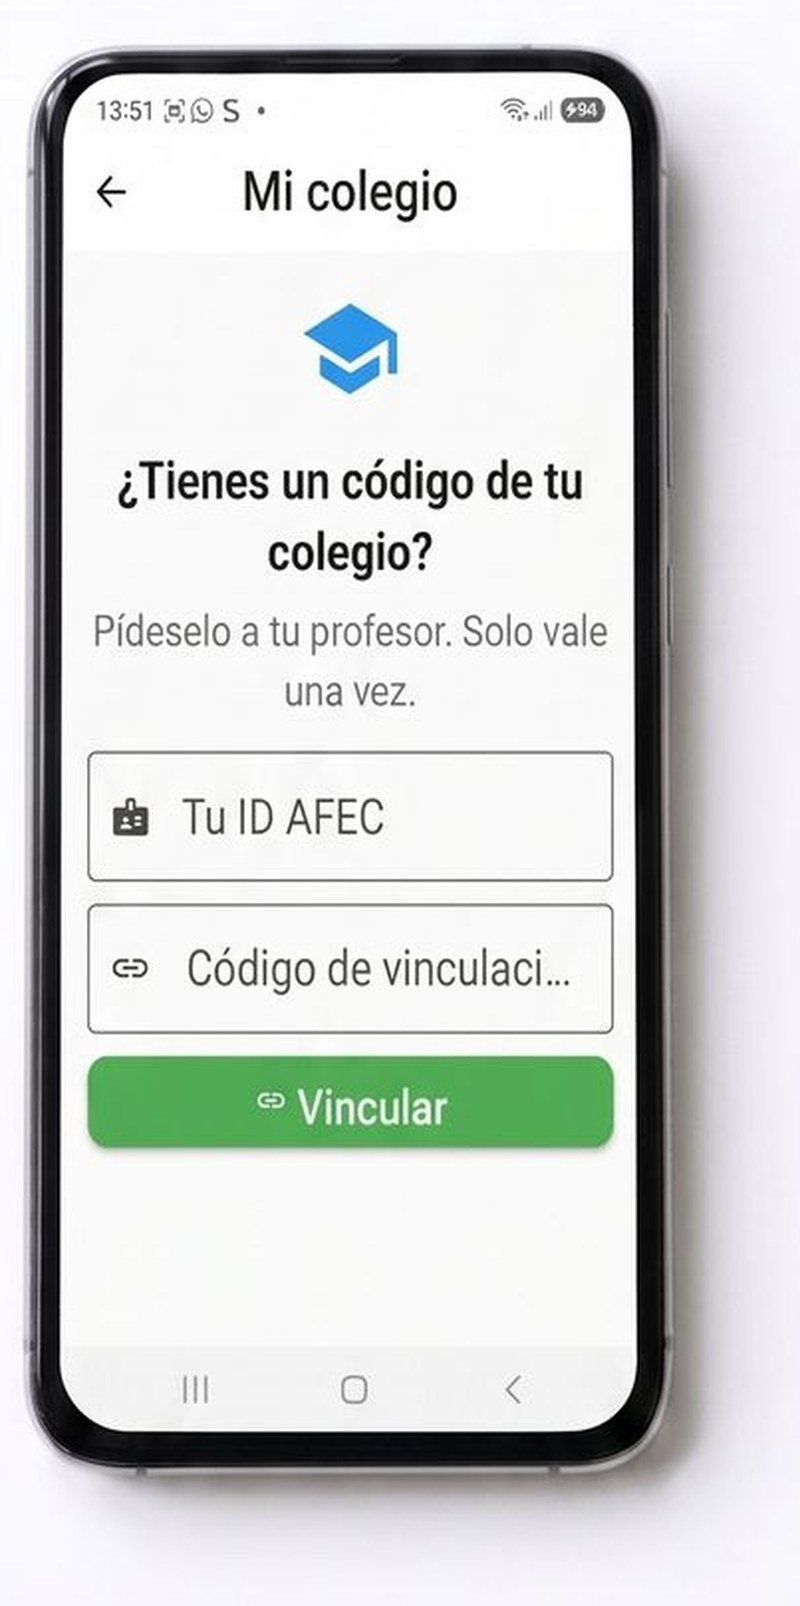
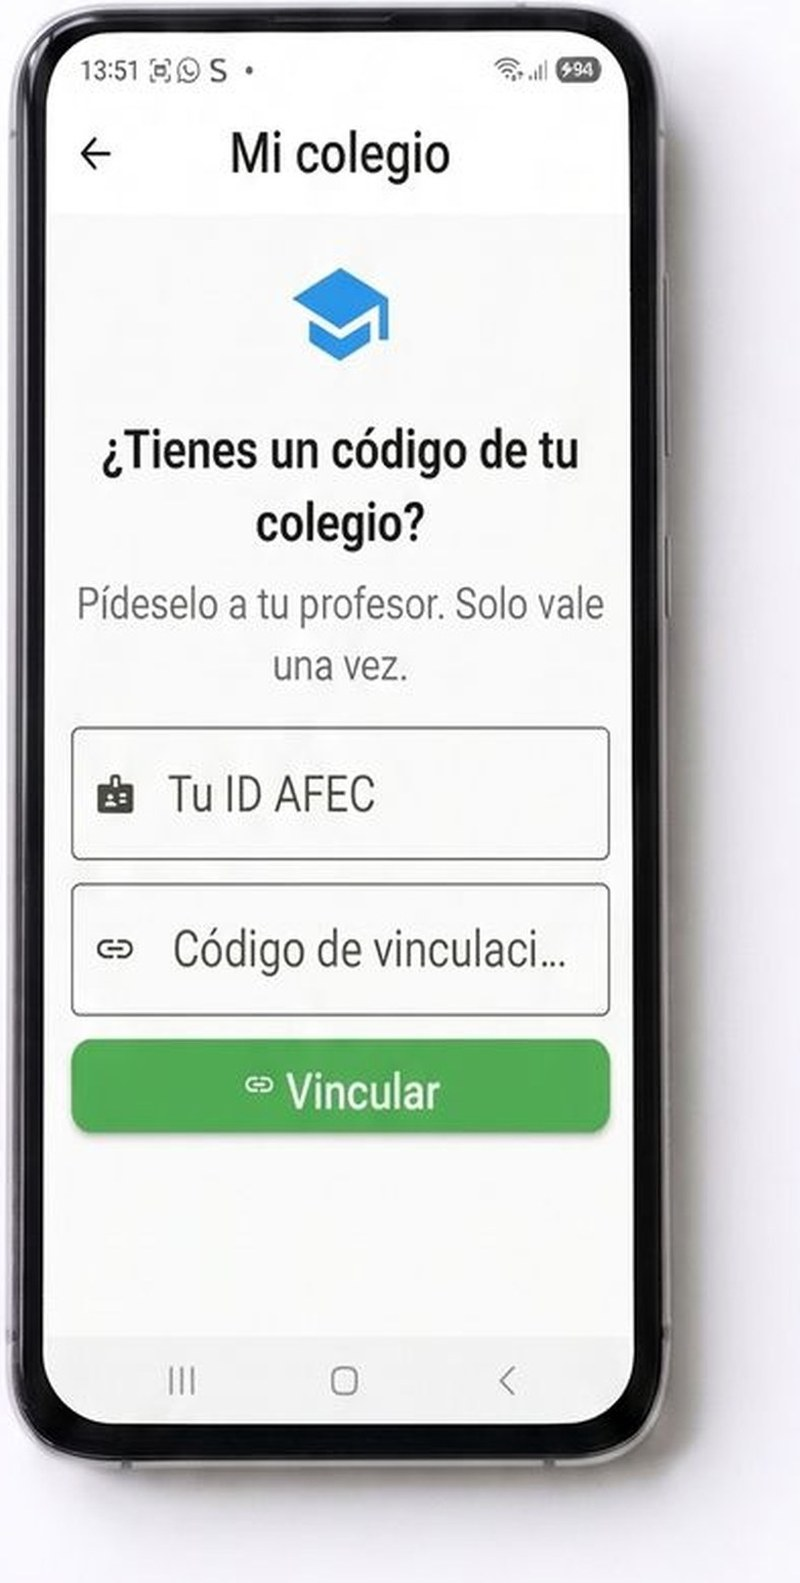
Guia vinculacion: moviles pegados al fondo de la web (recorte a cero margen, sin borde, fuera de la tarjeta blanca) + cache v3

Changed region(s): [[0.0, 0.0, 0.875, 0.9596]]

diff --git a/vinculacion-colegio.html b/vinculacion-colegio.html
@@ -98,7 +98,7 @@
   .captura {
     display: block; max-width: 360px; width: 100%;
     margin: 16px auto 6px;
-    border-radius: 18px; border: 1px solid #E0E0E0;
+    border-radius: 18px;
     box-shadow: var(--sombra);
   }
   .pie-foto {
@@ -169,10 +169,10 @@
       <p>En Google Play busca <strong>AFEC1</strong> y descárgala en el móvil o tablet de casa.
          Al abrirla verás esta pantalla: los primeros en darse de alta son <strong>papá o mamá</strong>,
          con la opción <strong>«Familia»</strong>.</p>
-      <img class="captura" src="img/vinculacion-entrada-real.jpg?v=2" alt="Pantalla de entrada de AFEC1 con las opciones Soy Menor, Familia y Profesor">
-      <p class="pie-foto">Pantalla de entrada de AFEC1</p>
     </div>
   </div>
+  <img class="captura" src="img/vinculacion-entrada-real.jpg?v=3" alt="Pantalla de entrada de AFEC1 con las opciones Soy Menor, Familia y Profesor">
+  <p class="pie-foto">Pantalla de entrada de AFEC1</p>
 
   <div class="paso">
     <div class="num">2</div>
@@ -201,10 +201,10 @@
       <h3>Entra con el PIN y pulsa «Mi colegio»</h3>
       <p>Entra en la zona de tu hijo con su PIN y pulsa la tarjeta <strong>«Mi colegio»</strong>.
          Ahí van los dos códigos de la hoja y el botón verde <strong>«Vincular»</strong>.</p>
-      <img class="captura" src="img/vinculacion-micolegio-real.jpg?v=2" alt="Pantalla real de Mi colegio en AFEC1 con los huecos del ID AFEC y el código de vinculación">
-      <p class="pie-foto">Pantalla «Mi colegio»: aquí van los dos códigos de la hoja</p>
     </div>
   </div>
+  <img class="captura" src="img/vinculacion-micolegio-real.jpg?v=3" alt="Pantalla real de Mi colegio en AFEC1 con los huecos del ID AFEC y el código de vinculación">
+  <p class="pie-foto">Pantalla «Mi colegio»: aquí van los dos códigos de la hoja</p>
 
   <div class="paso">
     <div class="num">5</div>
